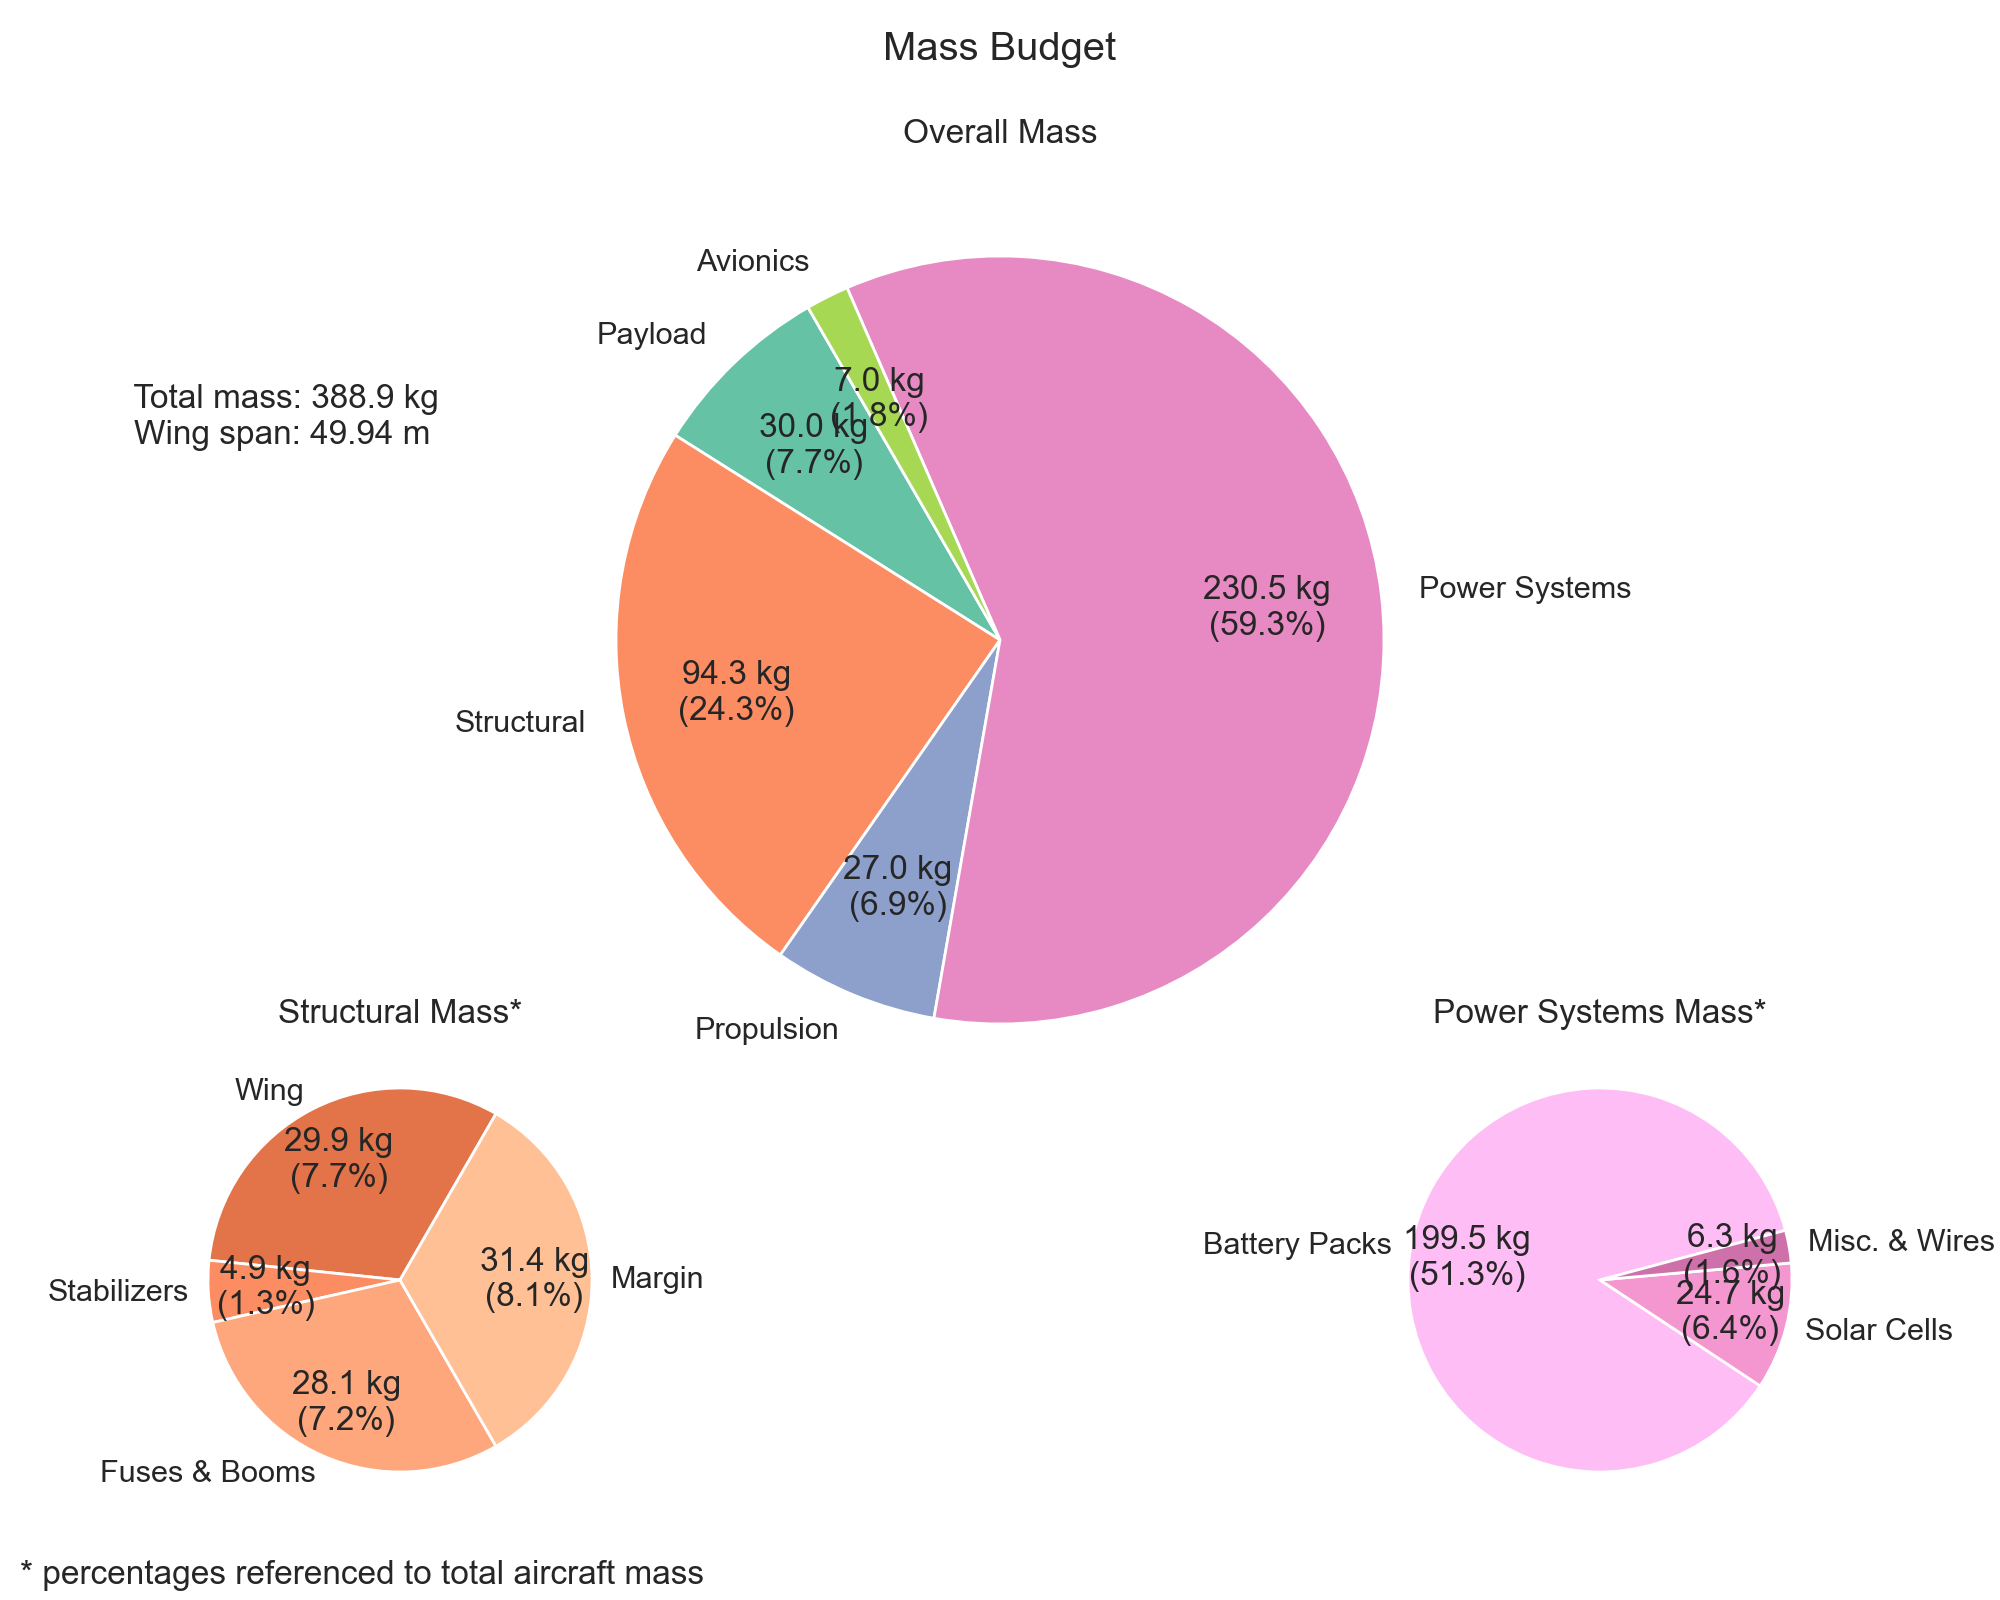
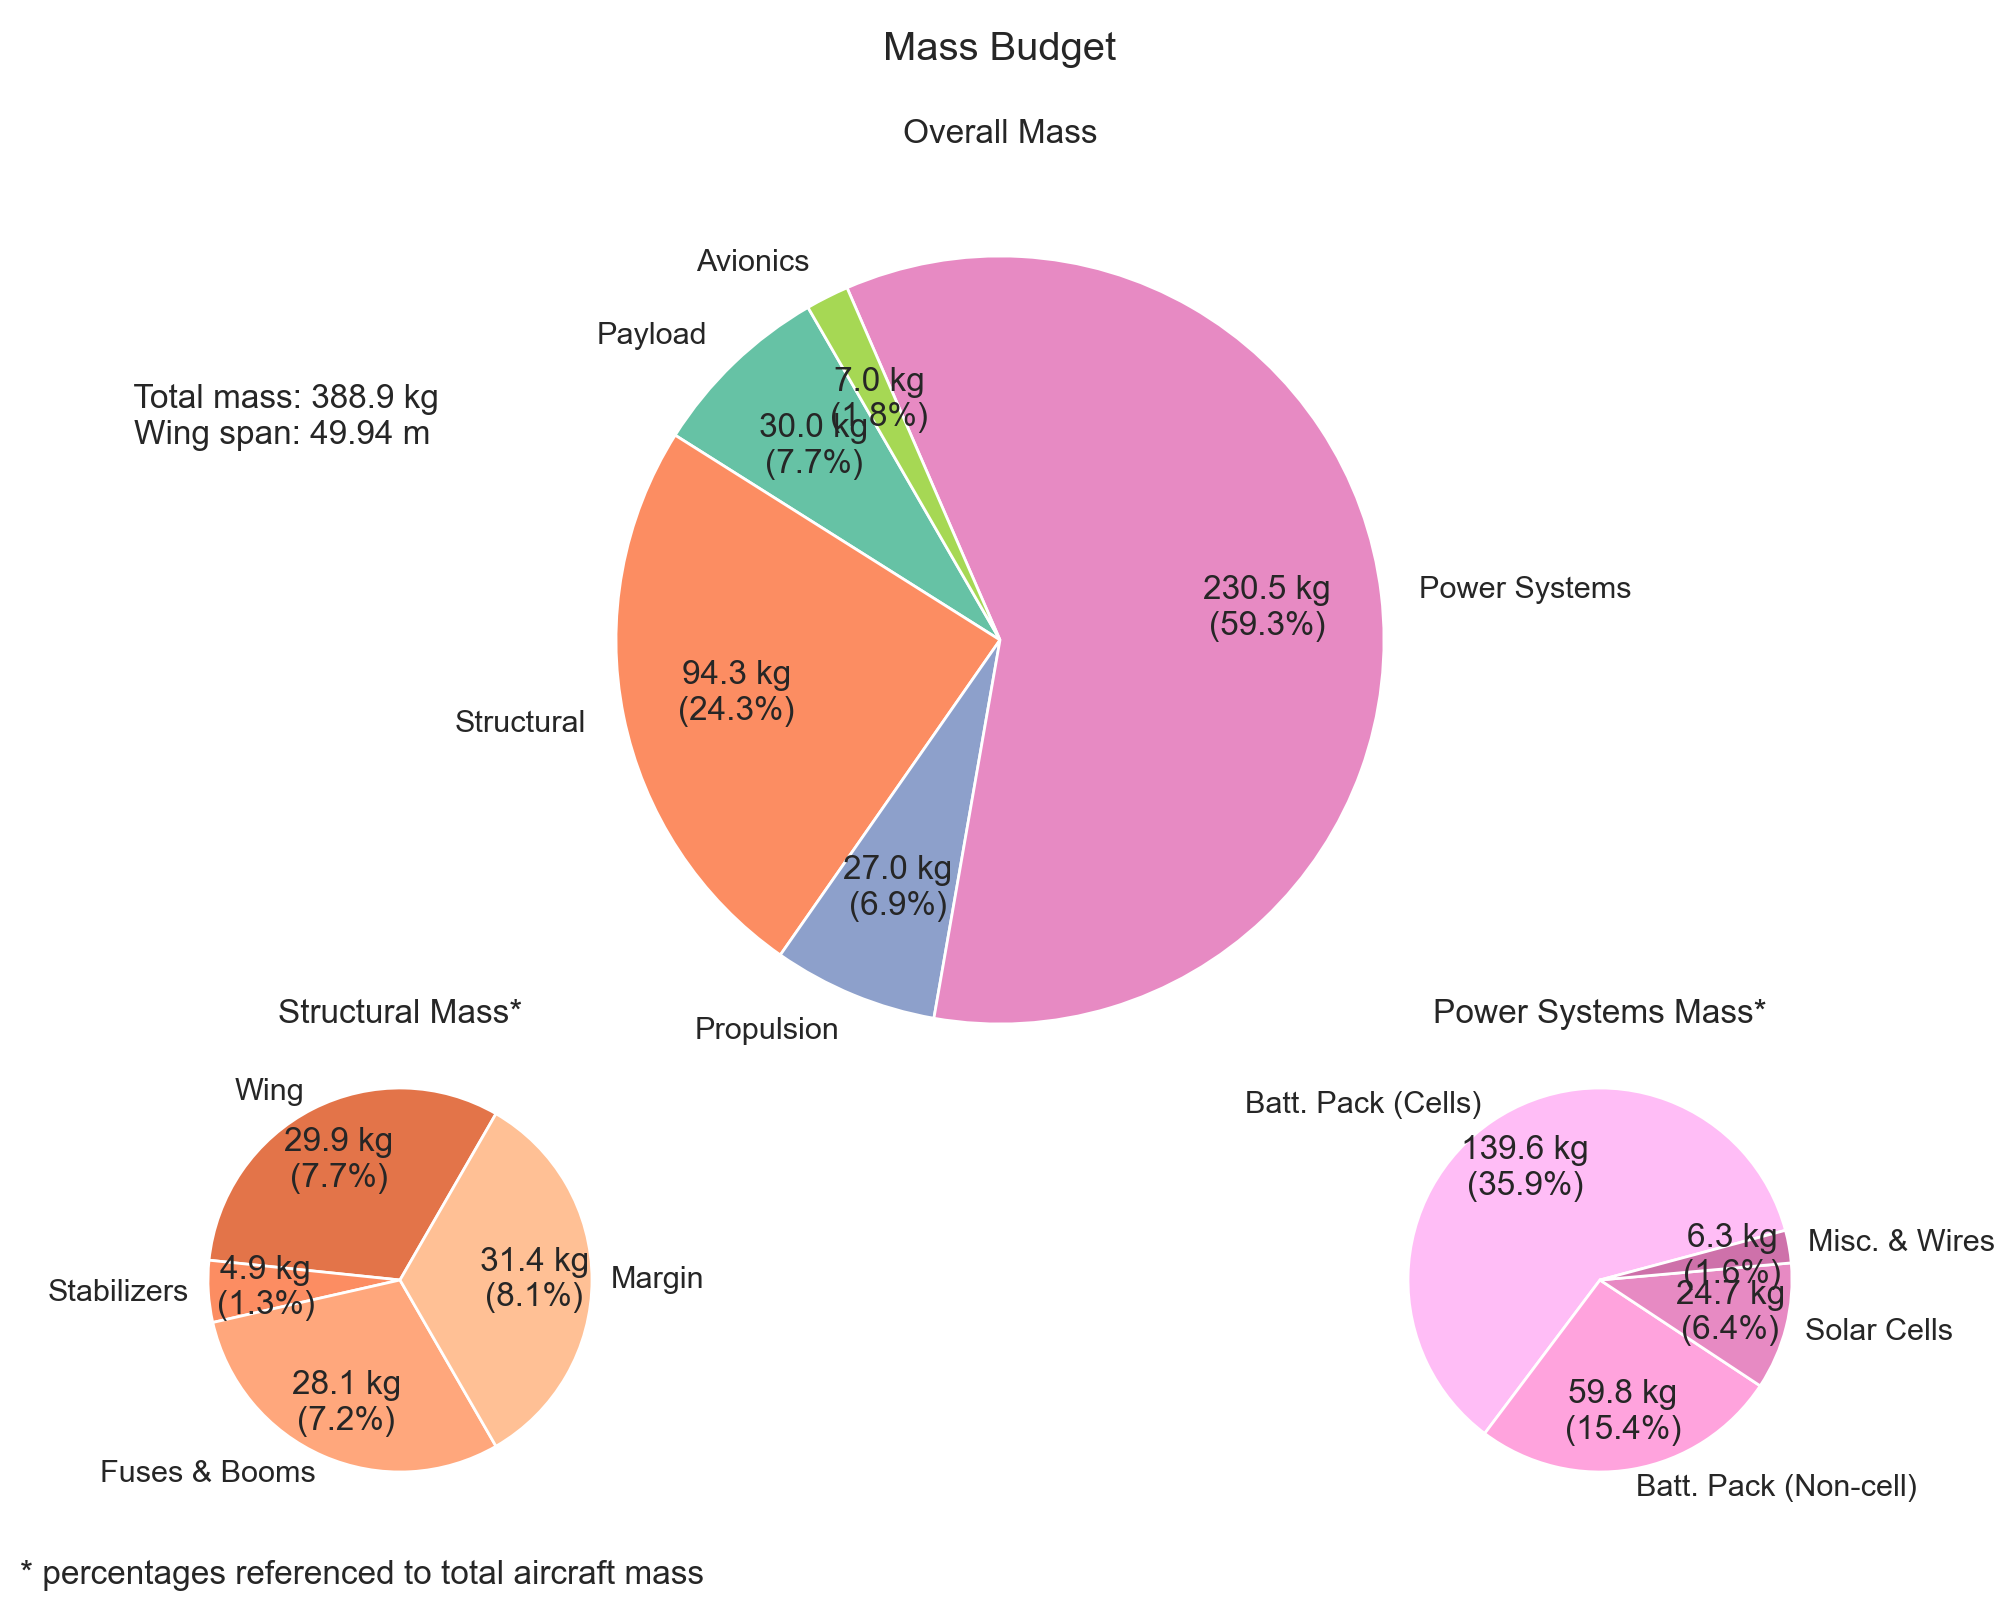
added method to calculate torques; split pack into cells and aux

Changed region(s): [[0.62, 0.6875, 0.961, 0.9375], [0.62, 0.6875, 0.651, 0.7188]]

diff --git a/design_opt.py b/design_opt.py
@@ -634,6 +634,8 @@ opti.subject_to([
     power_out_max > 0
 ])
 
+propeller_max_torque = (power_out_max/n_propellers) / propeller_rads_per_sec
+
 battery_voltage = 270  # From Olek Peraire >4/2, propulsion slack
 # battery_voltage = opti.variable()  # From Olek Peraire 4/2, propulsion slack
 # opti.set_initial(battery_voltage, 240)
@@ -767,6 +769,7 @@ mass_battery_pack = lib_prop_elec.mass_battery_pack(
     battery_cell_specific_energy_Wh_kg=battery_specific_energy_Wh_kg,
     battery_pack_cell_fraction=battery_pack_cell_percentage
 )
+mass_battery_cells = mass_battery_pack * battery_pack_cell_percentage
 
 mass_wires = lib_prop_elec.mass_wires(
     wire_length=wing.span() / 2,
@@ -1031,6 +1034,7 @@ wing_loading = 9.81 * max_mass_total / wing.area()
 wing_loading_psf = wing_loading / 47.880258888889
 empty_wing_loading = 9.81 * mass_structural / wing.area()
 empty_wing_loading_psf = empty_wing_loading / 47.880258888889
+propeller_efficiency = thrust_force * airspeed / power_out_propulsion_shaft
 
 ##### Add tippers
 things_to_slightly_minimize = (
@@ -1329,12 +1333,14 @@ if __name__ == "__main__":
 
     ax_power_systems = fig.add_axes([0.65, 0.05, 0.3, 0.3], aspect=1)
     pie_labels = [
-        "Battery Packs",
+        "Batt. Pack (Cells)",
+        "Batt. Pack (Non-cell)",
         "Solar Cells",
         "Misc. & Wires"
     ]
     pie_values = [
-        s(mass_battery_pack),
+        s(mass_battery_cells),
+        s(mass_battery_pack - mass_battery_cells),
         s(mass_solar_cells),
         s(mass_power_systems - mass_battery_pack - mass_solar_cells),
     ]
@@ -1400,7 +1406,6 @@ if __name__ == "__main__":
 
     # Write a geometry spreadsheet
     with open("outputs/geometry.csv", "w+") as f:
-        from types import ModuleType
 
         f.write("Design Variable, Value (all in base SI units or derived units thereof),\n")
         geometry_vars = [
